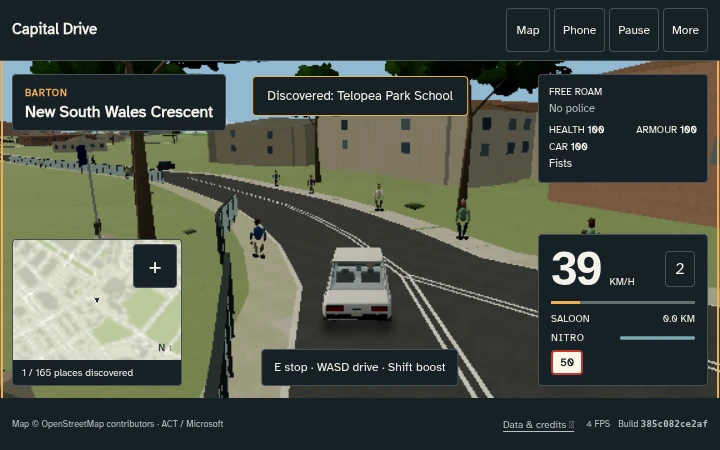
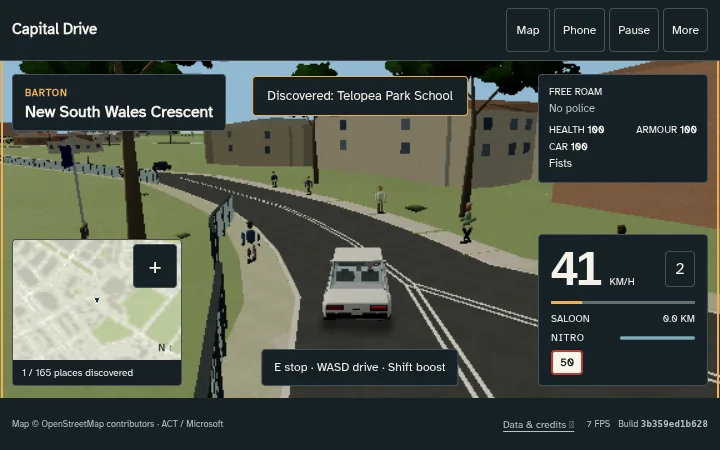
Show final release driving, Civic shopfronts and district exteriors in the gallery

diff --git a/docs/verification/arcade-canberra-2026-11-26/README.md b/docs/verification/arcade-canberra-2026-11-26/README.md
@@ -3,12 +3,14 @@
 | View | What was captured |
 | --- | --- |
 | [Franklin Street, Manuka](../../capital-drive-previews/landmark-studies/manuka-street.webp) · [Parliament Drive](../../capital-drive-previews/landmark-studies/parliament-street.webp) | Street-level views from the geographic renderer with actual roads, buildings, terrain and foliage. |
-| [Free roam at Telopea Park School](free-roam-telopea.webp) | Actual 1280 × 800 WebGL session using the Performance preset on build `385c082ce2af`. The normal startup, cache, mobile and desktop version badges, scene rendering, map search and Free roam teleport all passed. |
-| [Driving on New South Wales Crescent](free-roam-driving.webp) | Starting from rest near Telopea Park School, W moved the car 3.61 m. Adding D turned it 4.5° and brought the odometer to 5.75 m. The HUD shows 39 km/h in second gear. Captured at 720 × 450 on the Performance preset in a separate software WebGL session on build `385c082ce2af`. |
+| [Free roam at Telopea Park School](free-roam-telopea.webp) | Actual 1280 × 800 WebGL session using the Performance preset on build `3b359ed1b628`. The normal startup, cache, mobile and desktop version badges, scene rendering, map search and Free roam teleport all passed. |
+| [Driving on New South Wales Crescent](free-roam-driving.webp) | Starting from rest near Telopea Park School, W moved the car 4.38 m. Adding D turned it 4.8° and brought the odometer to 6.70 m. The HUD shows 41 km/h in second gear. Captured at 720 × 450 on the Performance preset in a separate software WebGL session on build `3b359ed1b628`. |
 | [Six arcade games in play](arcade-games.webp) | Actual browser sessions, including both Subway editions and Super Hot. Individual outcomes are in the fleet report. |
 | ![Six Canberra shops with distinct entrances, shelves and signage](shopfronts.webp) | Six isolated shopfronts rendered by the game. The models use parody names. [Tenant-by-tenant sources](../../capital-drive-shopfront-architecture.md) |
 | [Canberra landmarks](../../capital-drive-previews/landmark-studies/inner-and-west.webp) · [Northern and eastern landmarks](../../capital-drive-previews/landmark-studies/north-and-east.webp) | Eight model views from the game renderer. [Public references and model budgets](../../capital-drive-landmark-fidelity.md) |
 | ![Seven Canberra building models, including the Shine Dome arches, Museum loop and Library colonnade](national-buildings.webp) | Production model geometry drawn on the shipped footprints with daylight and flat ground. The camera rises above the Arboretum, Museum and Mint to show their roof shapes. [Capture details](#national-and-regional-building-captures) |
+| [Five Civic shopfronts](civic-shopfronts.webp) | Distinct Garema Place and Bunda Street facades. [Frontage sources and WebGL measurements](../capital-drive-civic-storefronts-2026-11-26.md) |
+| [Nine regional landmarks](regional-exteriors.webp) · [Seven North Canberra frontages](../../capital-drive-previews/landmark-studies/north-frontages.webp) | Includes GIO Stadium, Kippax Fair and street-level buildings in Dickson and Lyneham. [Regional references](../../capital-drive-regional-exteriors.md) · [Northern references](../../capital-drive-north-frontages.md) |
 | ![Brick outdoor barbecue with two hotplates](park-barbecue.webp) | Standalone view of the model assigned to ACT register entry BBQ429. The tile is an original photographic material from Poly Haven. |
 | ![A character speaks during Three Receipts](mission-radio.webp) | Campaign dialogue in the game's 2D compatibility mode. Native controls selected the mission and switched between its two routes from a fixture with the previous chapters completed. |
 | ![Run 3 in its tunnel](run-3.webp) | The browser entered Explore and accepted steering and jump controls after the level files were repaired. |
@@ -42,7 +44,7 @@ python -B scripts/capture_capital_national_buildings.py --output docs/verificati
 - [ACT park fixture positions, attribution and filtering](../../capital-drive-park-amenities.md)
 - [Streetlight locations and bounded rendering](../../capital-drive-streetlight-columns.md)
 
-The road check covered 27,417 roads, 155,465 source segments and 639,234 static lane clearance probes. There were 1,465 occupied probes on 305 roads. A control run with all 191 park fixtures removed produced the same results. Individual occupied probes need case-by-case inspection. The run does not establish that every vehicle can drive every possible turn.
+The initial road check, before the additional Kippax Fair building was joined from its two map ways, covered 27,417 roads, 155,465 source segments and 639,234 static lane clearance probes. There were 1,465 occupied probes on 305 roads. A control run with all 191 park fixtures removed produced the same results. Individual occupied probes need case-by-case inspection. The run does not establish that every vehicle can drive every possible turn.
 
 ## Pedestrian setup profile
 
